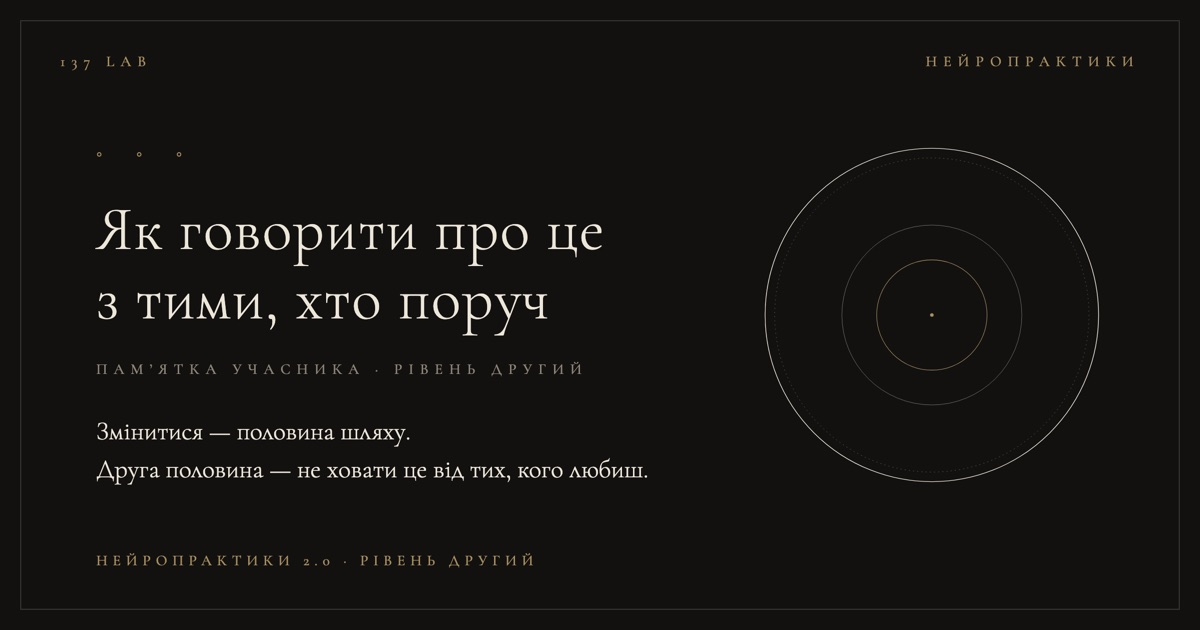
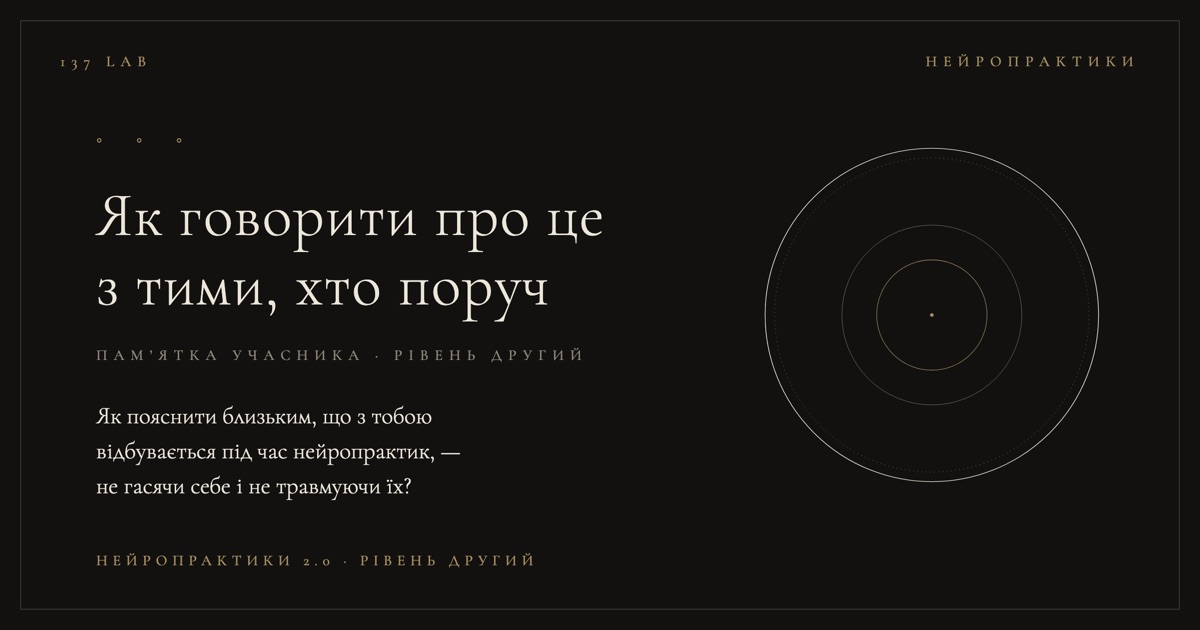
poruch: картка-питання + третій рядок тези + редакторський прохід
- OG-картка: «Як пояснити близьким, що з тобою відбувається під час
  нейропрактик, — не гасячи себе і не травмуючи їх?» (мети синхронізовано;
  «подавляючи» → «гасячи» — річище сторінки «Не гасни»)
- хиро: + «Твій щирий прояв — їхня бонусна трансформація»
- влучність: обіцяна «фраза з пʼяти слів» тепер справді пʼять — «Мені потрібна
  не згода — присутність»; інтро списків без хибних «ліворуч/праворуч»;
  CTA переведено у «ти»-голос сторінки

Changed region(s): [[0.0617, 0.3016, 0.5242, 0.6032], [0.0617, 0.6333, 0.5242, 0.7841], [0.0925, 0.5429, 0.3083, 0.6032]]

diff --git a/poruch/index.html b/poruch/index.html
@@ -8,17 +8,17 @@
 <link rel="icon" sizes="32x32" href="/icons/favicon-32x32.png">
 <link rel="apple-touch-icon" href="/icons/apple-touch-icon.png">
 <title>Як говорити про це з тими, хто поруч — нейропрактики</title>
-<meta name="description" content="Трансформація зсередини і ззовні. Як проявлятися, не ховаючись, і як пояснити близьким, що з тобою відбувається.">
+<meta name="description" content="Як пояснити близьким, що з тобою відбувається під час нейропрактик, — не гасячи себе і не травмуючи їх?">
 <meta property="og:type" content="article">
 <meta property="og:title" content="Як говорити про це з тими, хто поруч">
-<meta property="og:description" content="Змінитися — половина шляху. Друга половина — не ховати це від тих, кого любиш. Памʼятка учасника нейропрактик · рівень другий.">
+<meta property="og:description" content="Як пояснити близьким, що з тобою відбувається під час нейропрактик, — не гасячи себе і не травмуючи їх?">
 <meta property="og:url" content="https://137lab.xyz/poruch/">
 <meta property="og:image" content="https://137lab.xyz/poruch/og.jpg">
 <meta property="og:image:width" content="1200">
 <meta property="og:image:height" content="630">
 <meta name="twitter:card" content="summary_large_image">
 <meta name="twitter:title" content="Як говорити про це з тими, хто поруч">
-<meta name="twitter:description" content="Змінитися — половина шляху. Друга половина — не ховати це від тих, кого любиш.">
+<meta name="twitter:description" content="Як пояснити близьким, що з тобою відбувається під час нейропрактик, — не гасячи себе і не травмуючи їх?">
 <meta name="twitter:image" content="https://137lab.xyz/poruch/og.jpg">
 <link rel="preconnect" href="https://fonts.googleapis.com">
 <link rel="preconnect" href="https://fonts.gstatic.com" crossorigin>
@@ -220,7 +220,7 @@
     <circle cx="300" cy="300" r="3" fill="#A98F60"/>
   </svg>
 
-  <p class="thesis">Змінитися — половина шляху.<br>Друга половина — не ховати це від тих, кого любиш.</p>
+  <p class="thesis">Змінитися — половина шляху.<br>Друга половина — не ховати це від тих, кого любиш.<br>Твій щирий прояв — їхня бонусна трансформація.</p>
 
   <a class="down" href="#story" aria-label="Далі">↓</a>
 </header>
@@ -360,7 +360,7 @@
   <div class="wrap">
     <div class="eyebrow">Їхніми очима</div>
     <h2>Вони не бачать твого стану</h2>
-    <p>Вони бачать зміну поведінки — і пояснюють її звичними причинами. Ось п'ять найчастіших. Ліворуч у кожній — те, що переживають вони. Далі — те, чим це є насправді, і чому воно читається саме так.</p>
+    <p>Вони бачать зміну поведінки — і пояснюють її звичними причинами. Ось п'ять найчастіших. Спершу — те, що бачать вони. Потім — те, чим це є насправді, і чому воно читається саме так.</p>
 
     <ul class="eyes">
       <li>
@@ -406,7 +406,7 @@
   <div class="wrap">
     <div class="eyebrow">Словник</div>
     <h2>Одне й те саме — двома мовами</h2>
-    <p class="mut">Ліворуч — те, що ти відчуваєш. Праворуч — те, що можна сказати вголос, не втрачаючи правди й не викликаючи тривоги.</p>
+    <p class="mut">Угорі — те, що ти відчуваєш. Під ним — те, що можна сказати вголос, не втрачаючи правди й не викликаючи тривоги.</p>
 
     <div class="dict">
       <div>
@@ -479,7 +479,7 @@
       <li><b>Запрошення без тиску</b><span>«Якщо колись стане цікаво — розкажу». Крапка. Двері прочинені, і в них нікого не штовхають.</span></li>
     </ol>
 
-    <p class="pull">А ось і обіцяна фраза:<br>«Мені не потрібна згода. Потрібна присутність.»</p>
+    <p class="pull">А ось і обіцяна фраза:<br>«Мені потрібна не згода — присутність.»</p>
     <p>Вона працює тому, що знімає з людини роль судді — тієї, у якій вона мимоволі опинилася й від якої їй самій незручно. Ти не просиш схвалити. Ти просиш побути поруч. Це різні прохання, і на друге майже завжди кажуть «так».</p>
 
     <p style="margin-top:30px">Далі — готові відповіді на найчастіші запитання. Можна брати дослівно.</p>
@@ -546,7 +546,7 @@
       <p>«Ти дивно поводишся» = «мені трохи страшно за тебе».</p>
       <p>Не тягни нікого за собою. Прочини двері й відійди.</p>
       <p>Не гасни поруч із близькими, щоб їх не тривожити.</p>
-      <p>Мені не потрібна згода. Потрібна присутність.</p>
+      <p>Мені потрібна не згода — присутність.</p>
       <p>Спустошення після розмови = це було виправдовування.</p>
       <p>Мовчання — теж повноцінна відповідь.</p>
     </div>
@@ -588,9 +588,9 @@
 
 <div class="wrap">
   <div class="cta">
-    <p>Якщо це вас зацікавило — до курсу «Нейропрактика 2.0» ще можна доєднатися.</p>
+    <p>Якщо це відгукнулося — до курсу «Нейропрактика 2.0» ще можна доєднатися.</p>
     <a class="join" href="https://t.me/viki_assistant">Дізнатися більше</a>
-    <div class="fine">Без зобов'язань — просто напишіть, і вам розкажуть деталі.</div>
+    <div class="fine">Без зобовʼязань — просто напиши, і тобі розкажуть деталі.</div>
   </div>
 </div>
 
